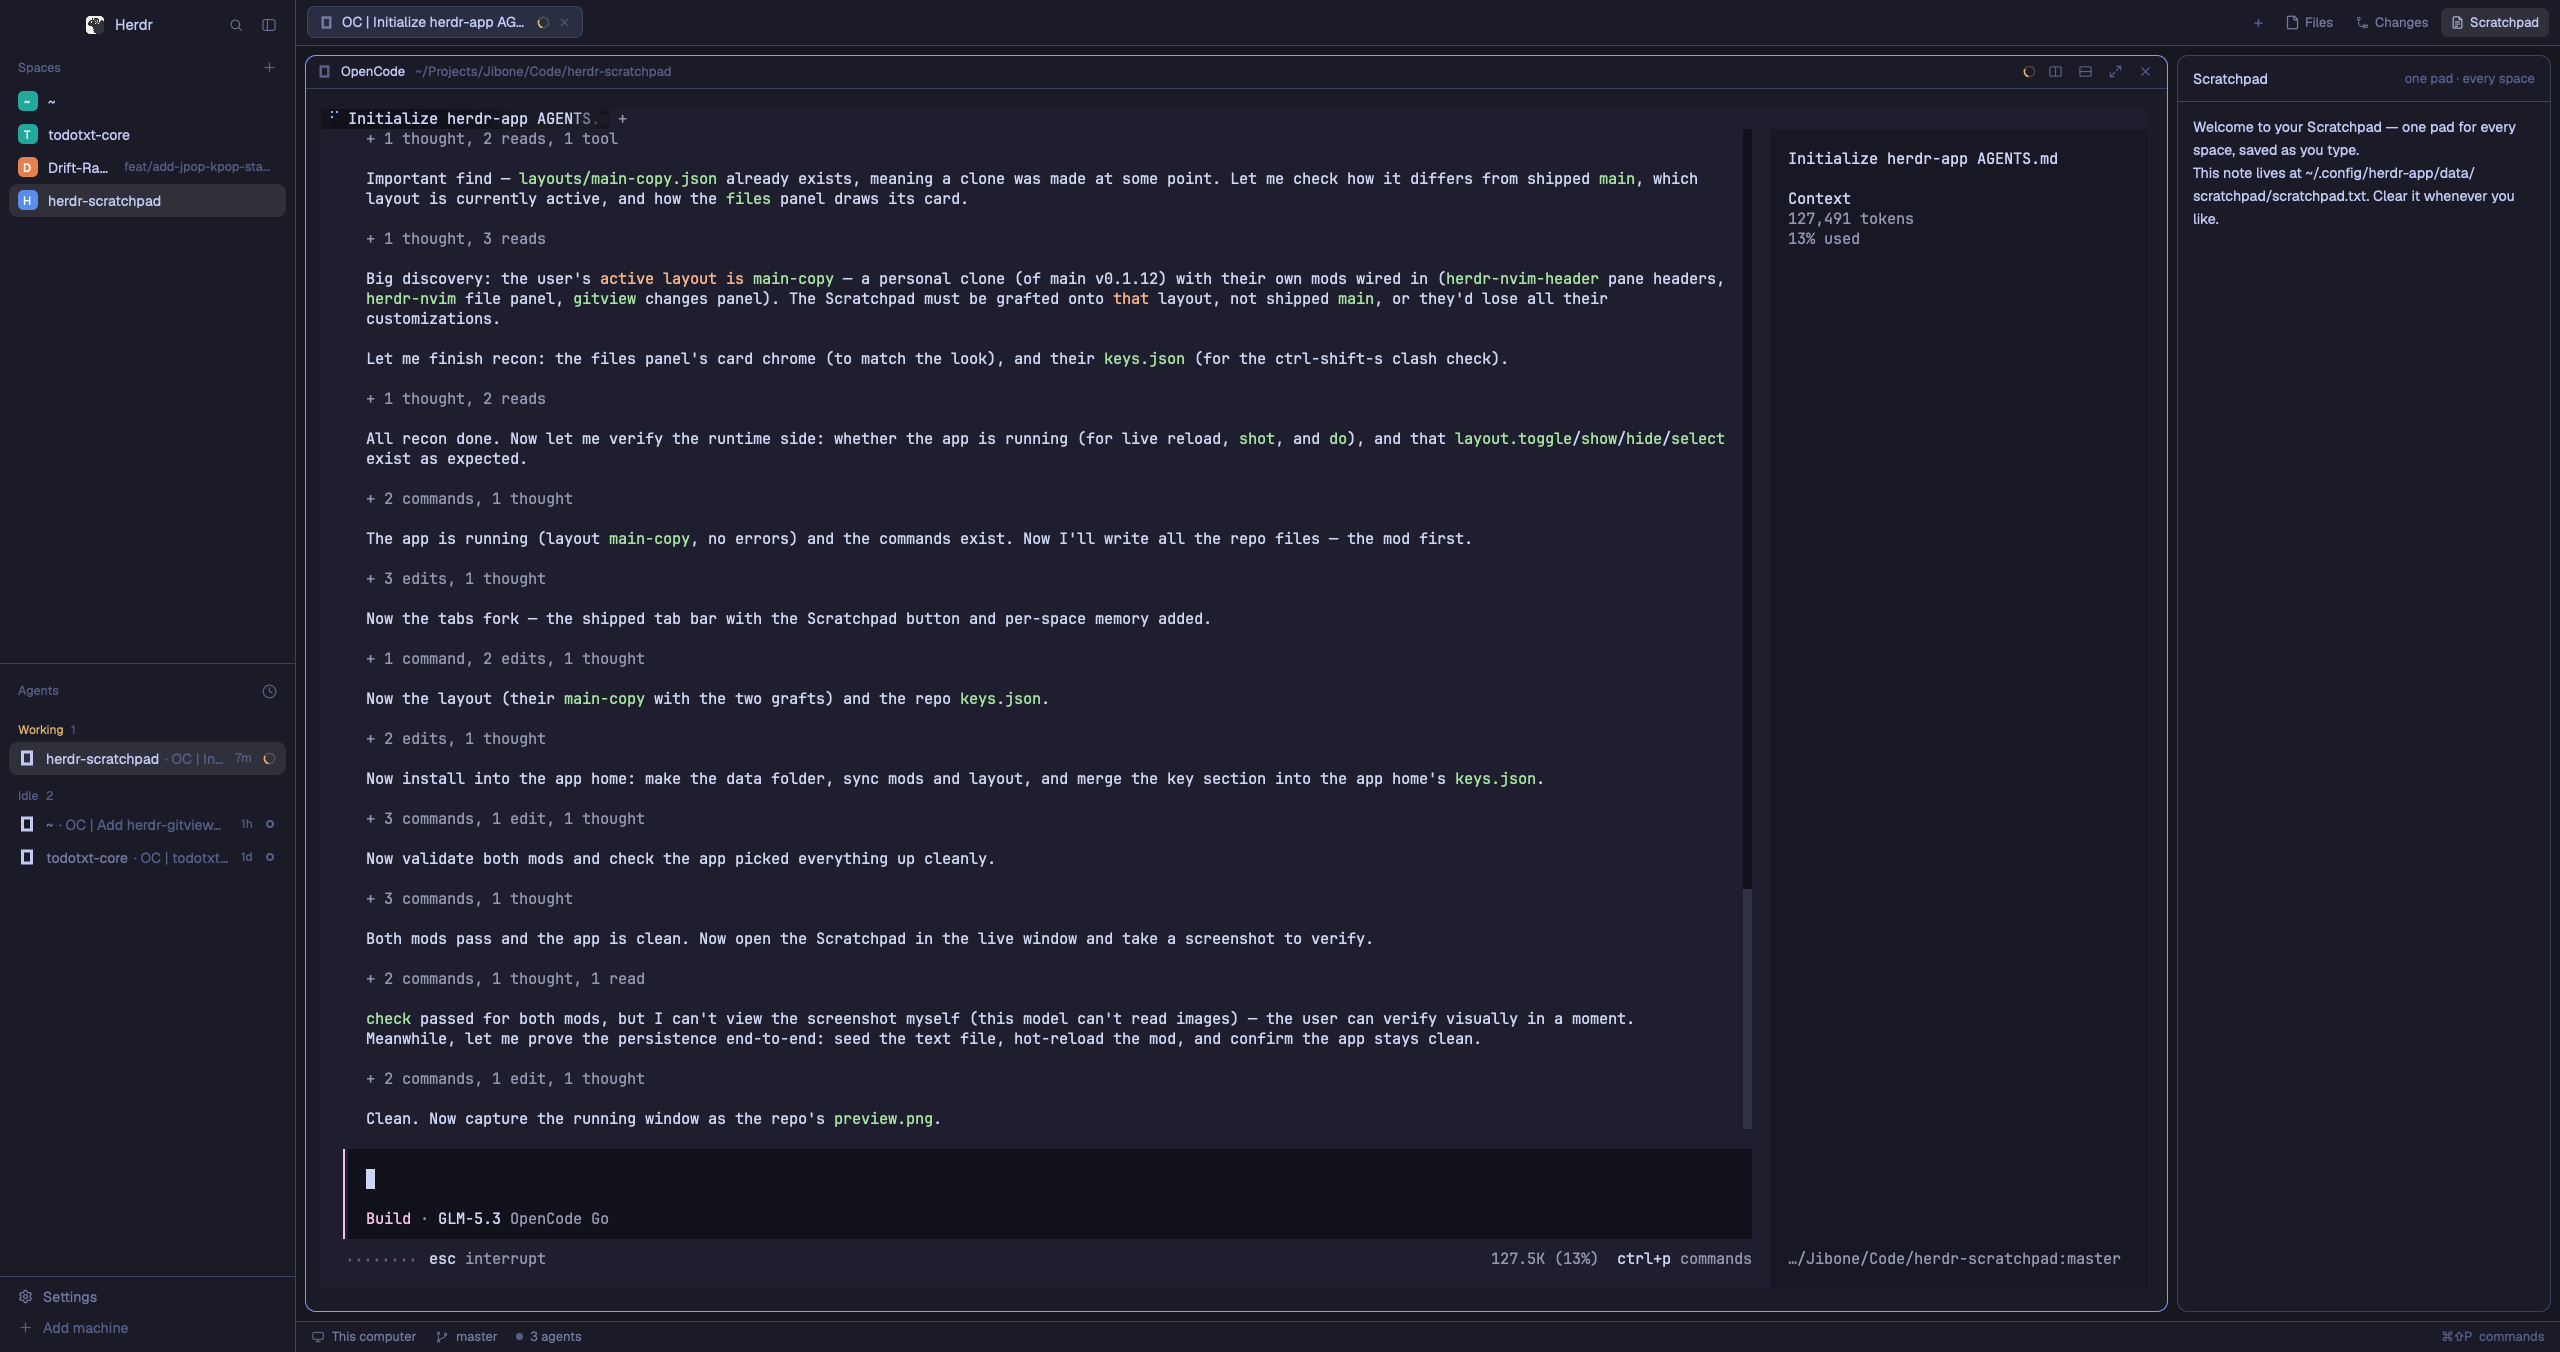
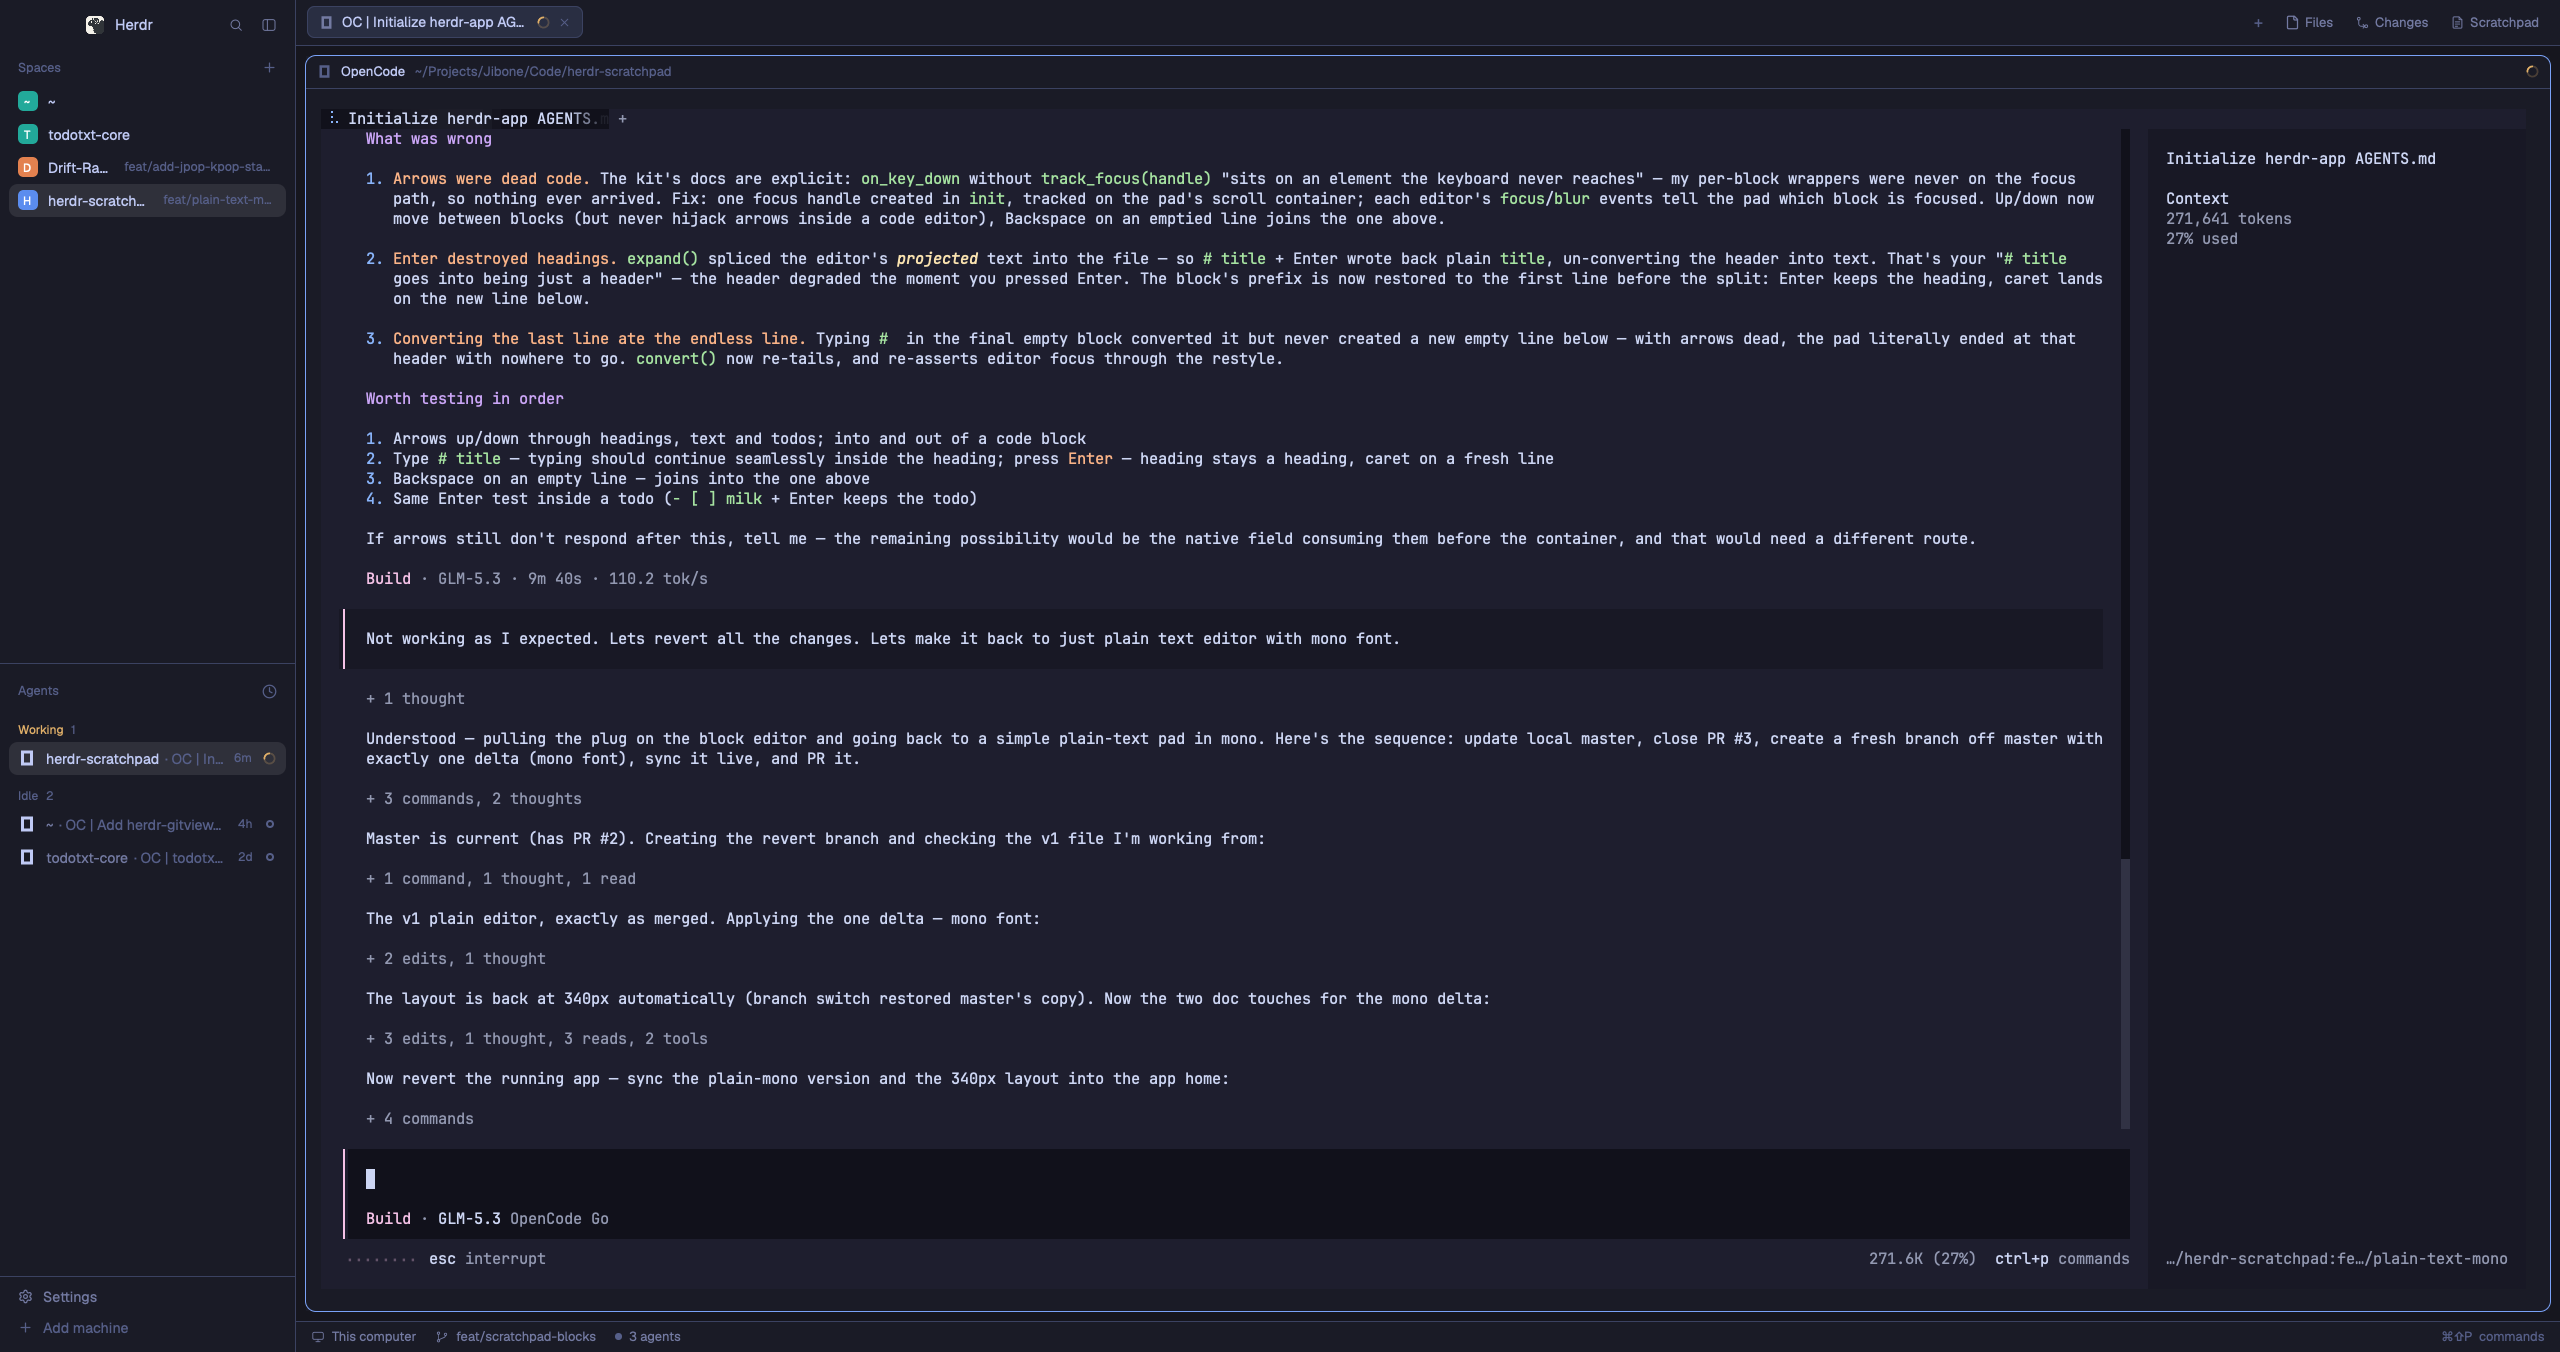
Revert to the plain text editor, in mono
The block-editor experiments (PR #3) are withdrawn: the pad is back to
the simple full-pane textarea from the first build, with one delta —
the text is set in the terminals' mono font
(settings().font_family, fallback JetBrains Mono).

The layout's pad width returns to its merged 340px default with the
revert; notes and storage are untouched.

diff --git a/mods/scratchpad/main.js b/mods/scratchpad/main.js
@@ -5,9 +5,11 @@
 // survives restarts and hot reloads, and reads the same in every space.
 import { View, div } from "gpui-kit";
 import { v_flex, h_flex, Textarea, TextareaState } from "gpui-base";
-import { appHome, readTextFile, writeTextFile, theme } from "herdr";
+import { appHome, readTextFile, writeTextFile, theme, settings } from "herdr";
 
 const file = () => `${appHome()}/data/scratchpad/scratchpad.txt`;
+// The terminals' mono font (Herdr's bundled default when unset).
+const mono = () => settings().font_family ?? "JetBrains Mono";
 
 export default class Scratchpad extends View {
   init(_props, cx) {
@@ -68,6 +70,6 @@ export default class Scratchpad extends View {
       .child(h_flex().h(42).flex_none().px(14).gap(8).items_center().border_b(1).border_color(t.border)
         .child(div().font_semibold().child("Scratchpad"))
         .child(div().flex_1().min_w(0).truncate().text_right().text_size(12).text_color(t.dim).child("one pad · every space")))
-      .child(Textarea.new(this.state).flex_1().min_h(0).px(14).py(12));
+      .child(Textarea.new(this.state).font_family(mono()).flex_1().min_h(0).px(14).py(12));
   }
 }

diff --git a/RECIPE.md b/RECIPE.md
@@ -18,10 +18,11 @@ screen, saved as you type to one text file.
   panes — theme `background`, 1 px `border`, 10 px corners — with a 42 px
   header: "Scratchpad" in semibold 13 px, right-aligned "one pad · every
   space" in dim 12 px, a 1 px rule under it.
-- The body is a plain wrapped text area, theme foreground on `background`,
-  13 px, padded 14 px sides / 12 px top and bottom. Empty, it carries the
-  placeholder "Jot anything — one scratchpad for every space, saved as you
-  type."
+- The body is a plain wrapped text area in the terminals' mono font
+  (`settings().font_family`, falling back to JetBrains Mono), theme
+  foreground on `background`, 13 px, padded 14 px sides / 12 px top and
+  bottom. Empty, it carries the placeholder "Jot anything — one scratchpad
+  for every space, saved as you type."
 
 ## How it behaves
 
@@ -51,7 +52,8 @@ screen, saved as you type to one text file.
 - `mods/scratchpad/` — the pane. `TextareaState.new({ placeholder })` with
   `set_soft_wrap(true)` created in `init` (a host call; never in render),
   `Textarea.new(state)` sized `flex_1().min_h(0)` in a full-height
-  `v_flex`, card chrome copied from the shipped `files` mod. From `herdr`:
+  `v_flex` with `.font_family(settings().font_family ?? "JetBrains Mono")`,
+  card chrome copied from the shipped `files` mod. From `herdr`:
   `readTextFile`/`writeTextFile` with `appHome()`; writes are
   compare-to-expected and serialized through one loop that always writes the
   latest text first, so fast typing cannot race itself. On a rejected write

diff --git a/README.md b/README.md
@@ -21,8 +21,9 @@ reload.
   a card like the terminal panes, and each space remembers whether it had
   the pad open, exactly like Files and Changes.
 - **A keyboard way in** — `cmd-shift-s` toggles it while the layout shows.
-- **Plain wrapped text** — a comfortable textarea in your theme, light or
-  dark.
+- **Plain wrapped text, in mono** — one comfortable textarea in the
+  terminals' font (JetBrains Mono unless settings.json names another), in
+  your theme, light or dark.
 
 ## Install
 
